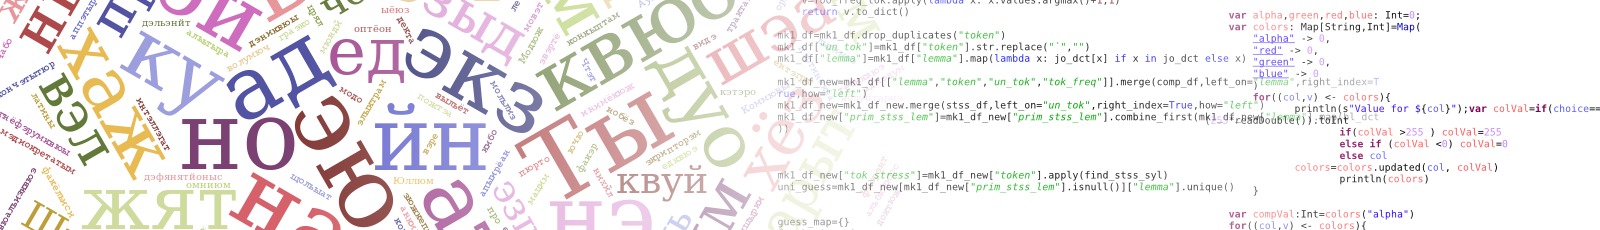
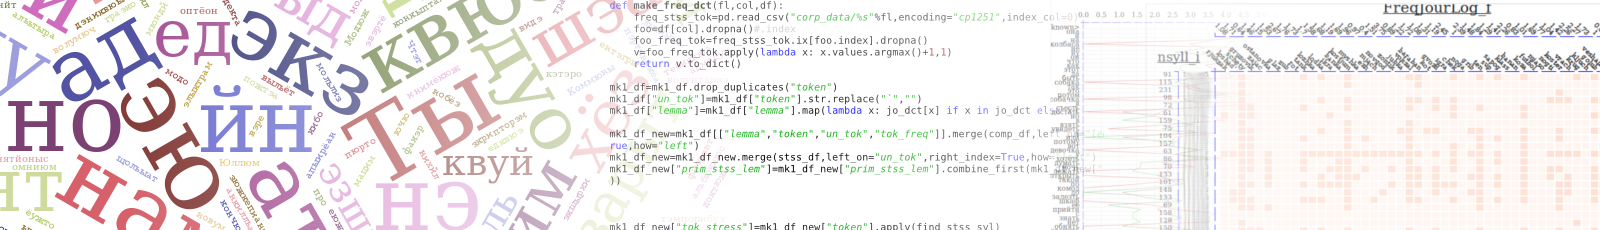
Updated the header and some infos

diff --git a/templates/resumee.html b/templates/resumee.html
@@ -26,8 +26,8 @@
   </ul>
   <h4>Languages</h4>
   <ul>
-    <li>Russian (near-native)</li>
     <li>German (native)</li>
+    <li>Russian (near-native)</li>
     <li>English (advanced)</li>
     <li>Slovenian (intermediate)</li>
     <li>Portuguese (beginner)</li>
@@ -38,12 +38,11 @@
     <li>Audacity</li>
     <li>GIMP</li>
     <li>Microsoft Office</li>
-    <li>HTML</li>
-    <li>C++</li>
   </ul>
   <h5>Advanced level</h5>
   <ul>
-    <li>Inkscape</li>
+    <li>Inkscape (and raw SVG)</li>
+    <li>Linux-related software/tools</li>
     <li>Python (especially pandas and NLTK)</li>
     <li>R</li>
   </ul>
@@ -57,22 +56,25 @@
   <h3>
     <a href="/static/media/cv_long.pdf">Long CV</a>
   </h3>
-  <h3>Work Samples</h3>
+  <h3>Work Samples (Combining Inkscape, Gimp, Python and R)</h3>
   <h5>Infographic about Kleinstprojekte in Moldova</h5>
   <p>
     <a href="/static/media/mold_map_ex.png">
-      <img class="alignnone size-medium wp-image-66" src="/media/mold_map_ex-212x300.png" alt="Moldova Infographic" width="212" height="300">
+      <img class="alignnone size-medium wp-image-66" src="/static/media/mold_map_small.png" alt="Moldova Infographic" width="212" height="300">
     </a>
   </p>
   <h5>
-    Conference presentation at 
-    <a href="http://www.lima.uni-hamburg.de/index.php/de/veranstaltungen/lima-abschlusskonferenz">MIMS 2</a>
+    Conference presentations at 
+    <a href="http://www.lima.uni-hamburg.de/index.php/de/veranstaltungen/lima-abschlusskonferenz">MIMS 2</a> (In co-authorship)
   </h5>
   <p>
-    <a href="/static/media/poster_vot.pdf">Poster for Voice Onset Time (VOT)</a>
+    <a href="/static/media/poster_vot.pdf">Poster for Voice Onset Time (VOT)
+    </a><br />
+      <img class="alignnone size-medium wp-image-66" src="/static/media/poster_vot_small.png" alt="Lima conference" width="300">
   </p>
   <p>
-    <a href="/static/media/poster_txtdev.pdf">Poster for Text Deviations of Heritage Readers</a>
+    <a href="/static/media/poster_txtdev.pdf">Poster for Text Deviations of Heritage Readers</a><br />
+      <img class="alignnone size-medium wp-image-66" src="/static/media/poster_txtdev_small.png" alt="Lima conference" width="300">
   </p>
   <p> </p>
   <p> </p>

diff --git a/templates/about_me.html b/templates/about_me.html
@@ -6,7 +6,7 @@
   
  <p>
   I'm a former BA-student of Russian Linguistics and History at the U Hamburg. I enjoy combining humanities with digital technologies -> Digital Humanities. My choice of programming language vary with the task: I've solved problems in Scala, Python, Coffeescript, Dart and O'Caml.
-  Although I must say that Python and Coffeescript are my main langs.
+  Although I must say that Python and Coffeescript are my main langs. Contact: igor.fischer[at]gmail.com.
  </p>
 
 Besides programming I like reading science-fiction (especially Stanislaw Lem or short stories) and learning portugues.

diff --git a/templates/base_boot.html b/templates/base_boot.html
@@ -11,6 +11,7 @@
     <!-- Bootstrap -->
 <link rel="stylesheet" href="//maxcdn.bootstrapcdn.com/bootstrap/3.2.0/css/bootstrap.min.css">
 <link rel="stylesheet" href="//maxcdn.bootstrapcdn.com/bootstrap/3.2.0/css/bootstrap-theme.min.css">
+<link rel="stylesheet" href="/static/home.css">
     <!-- HTML5 Shim and Respond.js IE8 support of HTML5 elements and media queries -->
     <!-- WARNING: Respond.js doesn't work if you view the page via file:// -->
     <!--[if lt IE 9]>

diff --git a/templates/base.html b/templates/base.html
@@ -1,7 +1,7 @@
 {% extends "base_boot.html" %}
 
 {% block navbar %}
-<div class="image_header"><img src="/static/homepage_header.png" /></div>
+<div class="masthead"><img src="/static/homepage_headerv2.png" /></div>
 
 <div class="navbar navbar-inverse" role="navigation">
     <div class="container">

diff --git a/static/home.css b/static/home.css
@@ -1,0 +1,5 @@
+.masthead img {
+width: 100%;
+    max-width: 1400px;
+
+}
